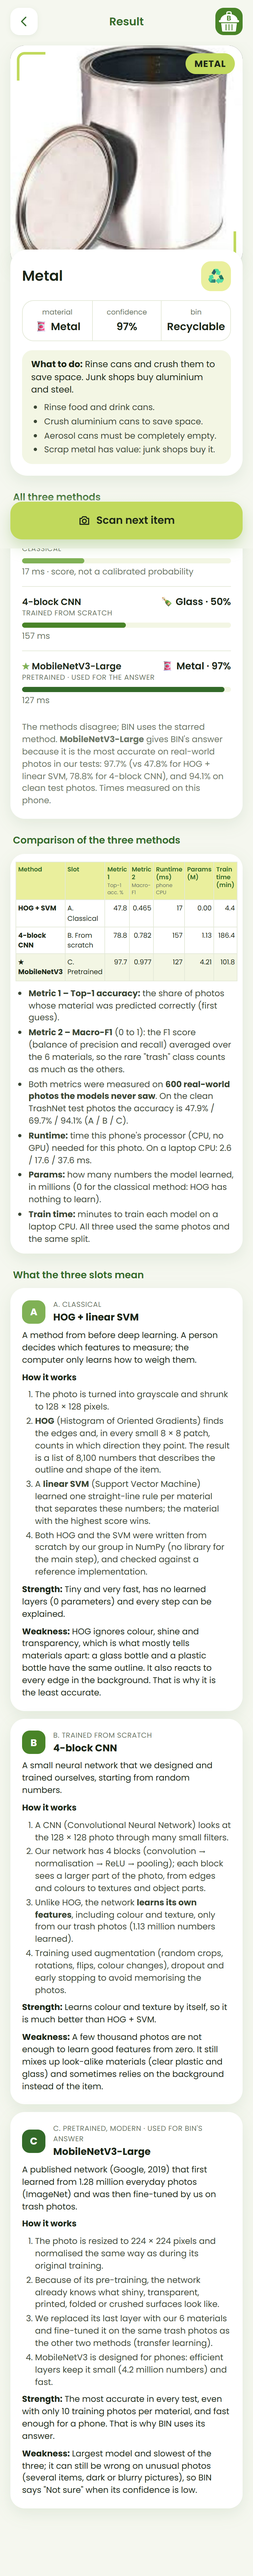
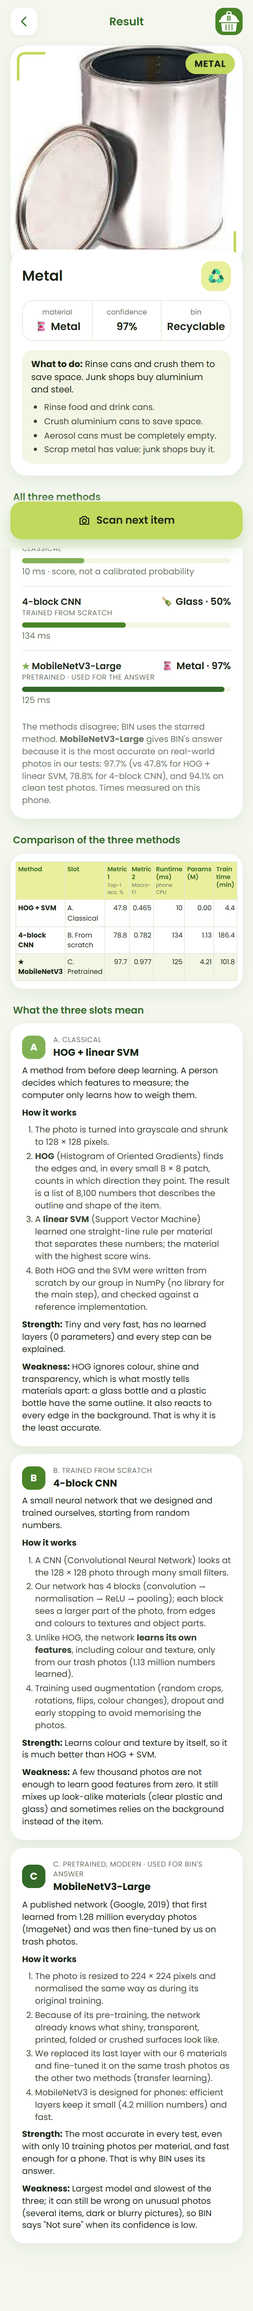
Show only the table in BIN's comparison section
Removed the explanatory notes under the comparison table on the result
screen; the table itself (Method, Slot, Metric 1, Metric 2, Runtime,
Params, Train time) is unchanged. Service worker cache bin-v8.

Changed region(s): [[0.0308, 0.0, 0.9538, 0.9674], [0.0615, 0.0, 0.1231, 0.0312]]

diff --git a/web/js/app.js b/web/js/app.js
@@ -319,18 +319,7 @@ function comparisonTable(res, rec) {
       <th>Metric 2<br><small>Macro-F1</small></th><th>Runtime (ms)<br><small>phone CPU</small></th>
       <th>Params (M)</th><th>Train time (min)</th></tr></thead>
     <tbody>${rows}</tbody></table></div>
-    <div class="swipe-hint" id="swipe-hint">swipe the table sideways to see all columns ›</div>
-    <ul class="small notes">
-      <li><b>Metric 1 – Top-1 accuracy:</b> the share of photos whose material was predicted correctly (first guess).</li>
-      <li><b>Metric 2 – Macro-F1</b> (0 to 1): the F1 score (balance of precision and recall) averaged over the 6 materials,
-        so the rare "trash" class counts as much as the others.</li>
-      <li>Both metrics were measured on <b>600 real-world photos the models never saw</b>. On the clean TrashNet test photos the
-        accuracy is ${["A", "B", "C"].map((k) => `${r[k].trashnet_accuracy.toFixed(1)}%`).join(" / ")} (A / B / C).</li>
-      <li><b>Runtime:</b> time this phone's processor (CPU, no GPU) needed for this photo. On a laptop CPU:
-        ${["A", "B", "C"].map((k) => `${r[k].runtime_ms_cpu.toFixed(1)}`).join(" / ")} ms.</li>
-      <li><b>Params:</b> how many numbers the model learned, in millions (0 for the classical method: HOG has nothing to learn).</li>
-      <li><b>Train time:</b> minutes to train each model on a laptop CPU. All three used the same photos and the same split.</li>
-    </ul>`;
+    <div class="swipe-hint" id="swipe-hint">swipe the table sideways to see all columns ›</div>`;
 }
 
 /** Plain-language explanation of one slot of the comparison. */

diff --git a/web/sw.js b/web/sw.js
@@ -1,6 +1,6 @@
 // Service worker: caches BIN and its AI models so the app opens instantly
 // and works offline after the first visit. Bump VERSION when files change.
-const VERSION = "bin-v7";
+const VERSION = "bin-v8";
 const SHELL = [
   "./", "index.html", "manifest.webmanifest", "css/app.css",
   "js/app.js", "js/models.js", "js/imaging.js", "js/hog.js", "js/content.js",
